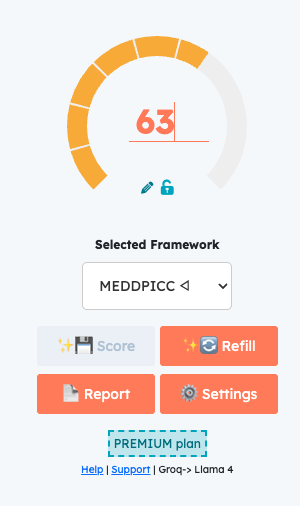
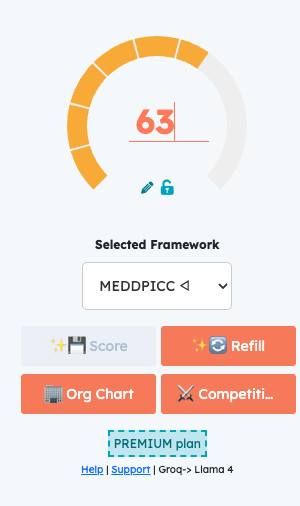
adding to the guide

diff --git a/_layouts/landing.html b/_layouts/landing.html
@@ -373,7 +373,7 @@
     <div class="container px-5">
       <div class="row gx-5 align-items-center justify-content-center justify-content-lg-between">
         <div class="col-sm-8 col-md-6 p-0">
-          <div class="px-0 px-md-5 pb-4 pb-md-0">
+          <div class="px-0 pb-4 pb-md-0">
             <img class="img-fluid border border-3 border-primary rounded rounded-3" src="/assets/images/features2.png" alt="AI scoring of sales deals" />
           </div>
         </div>
@@ -396,7 +396,7 @@
             Easier to qualify opportunities, review insights, and update scores without leaving your workflow. Boost productivity and close deals faster with <strong>talking points</strong> for every Contact.
         </div>
         <div class="col-sm-8 col-md-6 p-0">
-          <div class="px-0 px-md-5 pb-4 pb-md-0">
+          <div class="px-0 pb-4 pb-md-0">
             <img class="img-fluid border border-3 border-primary rounded rounded-3" src="/assets/images/features5.png" alt="AI scoring of sales deals" />
           </div>
         </div>
@@ -408,7 +408,7 @@
     <div class="container px-5">
       <div class="row gx-5 align-items-center justify-content-center justify-content-lg-between">
         <div class="col-sm-8 col-md-6 p-0">
-          <div class="px-0 px-md-5 pb-4 pb-md-0">
+          <div class="px-0 pb-4 pb-md-0">
             <img class="img-fluid border border-3 border-primary rounded rounded-3" src="/assets/images/features4.png" alt="AI scoring of sales deals" />
           </div>
         </div>
@@ -432,7 +432,7 @@
               Keep your pipeline healthy and supervise your team with reports showing <strong>average MEDDICC scores per Sales Rep</strong>, deals missing scores, and score trends. Spot at‑risk opportunities and qualification gaps by pipeline, owner, or stage — then export to Excel or PDF for audits and sharing.
             </p></p>
           </p>
-          <p class="lead fw-normal text-muted mb-0">
+          <p class="lead fw-normal text-muted mb-5 mb-lg-0">
             Actionable exports and visuals enforce deal hygiene, prioritize follow-ups, and <strong>improve forecasting accuracy</strong>.
           </p>
         </div>
@@ -449,7 +449,7 @@
     <div class="container px-5">
       <div class="row gx-5 align-items-center justify-content-center justify-content-lg-between">
         <div class="col-sm-8 col-md-6 p-0">
-          <div class="px-0 px-md-5 pb-4 pb-md-0">
+          <div class="px-0 pb-4 pb-md-0">
             <img class="img-fluid border border-3 border-primary rounded rounded-3" src="/assets/images/features6.png" alt="Organizational Chart Feature" />
           </div>
         </div>
@@ -473,7 +473,7 @@
           </p>
         </div>
         <div class="col-sm-8 col-md-6 p-0">
-          <div class="px-0 px-md-5 pb-4 pb-md-0">
+          <div class="px-0 pb-4 pb-md-0">
             <img class="img-fluid border border-3 border-primary rounded rounded-3" src="/assets/images/features61.png" alt="Competitor Charts Feature" />
           </div>
         </div>
@@ -490,7 +490,7 @@
             Pick the best AI model for your needs from top providers like <strong>OpenAI, Google, Anthropic, or Meta</strong>. Choose based on performance, cost, or data privacy to ensure your sales process is powered by the most suitable AI technology. With <strong>Azure OpenAI</strong> you can also guarantee enterprise-grade security and privacy.
         </div>
         <div class="col-sm-8 col-md-6 p-0">
-          <div class="px-0 px-md-5 pb-4 pb-md-0">
+          <div class="px-0 pb-4 pb-md-0">
             <img class="img-fluid border border-3 border-primary rounded rounded-3" src="/assets/images/guide811.png" alt="AI providers for Meddicc Score" />
           </div>
         </div>

diff --git a/_includes/sidebar_resume.html b/_includes/sidebar_resume.html
@@ -37,6 +37,7 @@
       <li><a href="#begin-scoring">6. Deals - Begin Scoring</a></li>
       <ul>
         <li><a href="#org-charts">6.1 Org Charts</a></li>
+        <li><a href="#competitor-charts">6.2 Competitor Charts</a></li>
       </ul>
       <li><a href="#change-framework">7. Change the Framework</a></li>
       <li><a href="#settings">8. Settings</a></li>

diff --git a/_posts/2023-01-01-setup-guide.md b/_posts/2023-01-01-setup-guide.md
@@ -245,6 +245,24 @@ Note: Comments to engagements or attachments to the engagements are not gathered
 
 <hr>
 
+<h5 class="pt-6-m mb-3 text-primary" id="competitor-charts">6.2 Competitor Charts:</h5>
+
+<ul>
+  <li>From the Deal form, you can access the <strong>Competitor Charts</strong> to visualize and compare your company's offerings against competitors. This feature helps you identify strengths, weaknesses, and unique value propositions in your sales strategy.</li>
+
+<p class="text-center"><img src="/assets/images/features61.png" alt="Competitor Charts" class="my-3 border border-3 border-primary rounded rounded-3"></p>
+
+  <li>You can create multiple competitor charts to be applied in different Deals, allowing you to map different competitive scenarios or focus on specific market segments. The chart you create or select for a deal will become the default for that specific deal.</li>
+  <li><strong>Selecting and Moving Competitors:</strong> Competitors can be selected from the predefined list and positioned on the chart. You can drag and drop competitors to arrange them visually, representing their market positioning or threat level.</li>
+  <li><strong>Managing Charts:</strong> Different competitor charts can be selected from existing ones, or you can create a new chart tailored to the deal's context. This flexibility allows for customized competitive analysis per opportunity.</li>
+  <li><strong>Integration with Sales Framework:</strong> The information from the competitor chart will be considered to automatically fill up the sales framework on competitor-related questions, providing AI-generated insights based on the mapped competitive landscape.</li>
+  <li>The list of competitors can be edited or competitors can be deleted in <strong>Settings > Company Profile > Competitors</strong>.</li>
+</ul>
+
+<p class="text-center"><img src="/assets/images/guide62.png" alt="Competitor Charts" class="my-3 border border-3 border-primary rounded rounded-3"></p>
+
+<hr>
+
 <h4 class="pt-6-m mb-3 text-primary" id="change-framework">7. Change the Framework</h4>
 
 <ul>
